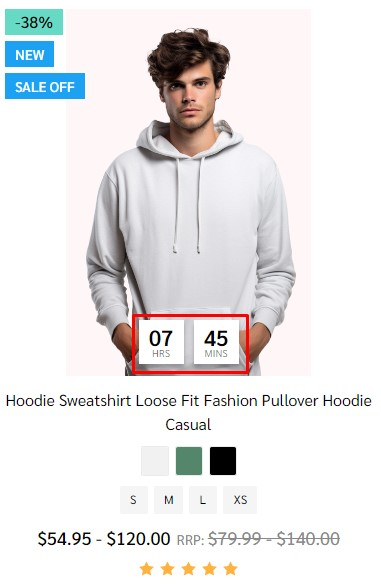
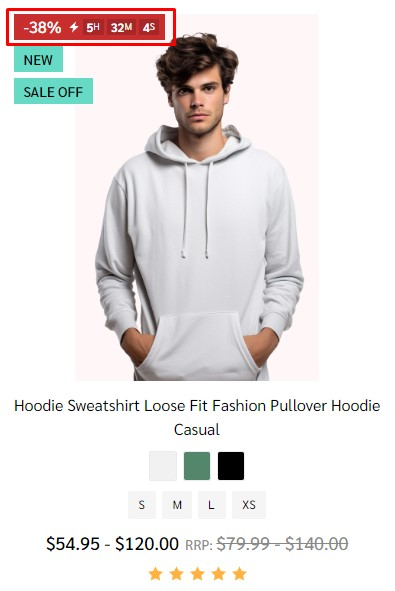
fix coupon

diff --git a/docs/usage.md b/docs/usage.md
@@ -1233,7 +1233,9 @@ Note: The time before cut off the message will show **shipping today** after cut
 
 ![Coupon-ticket](img/coupon-ticket.jpg)
 
-To create coupon for product detail page, In **Page Builder**, drag and drop widget **Coupons | PapaThemes Dinosaur** to corresponding position.
+In **Page Builder**, drag and drop widget **Coupons | PapaThemes Dinosaur** to correct widget region as picture below.
+
+Set **Layout** > **Column** `padding` = `0`.
 
 ![Coupon-ticket](img/coupon-region.jpg)
 
